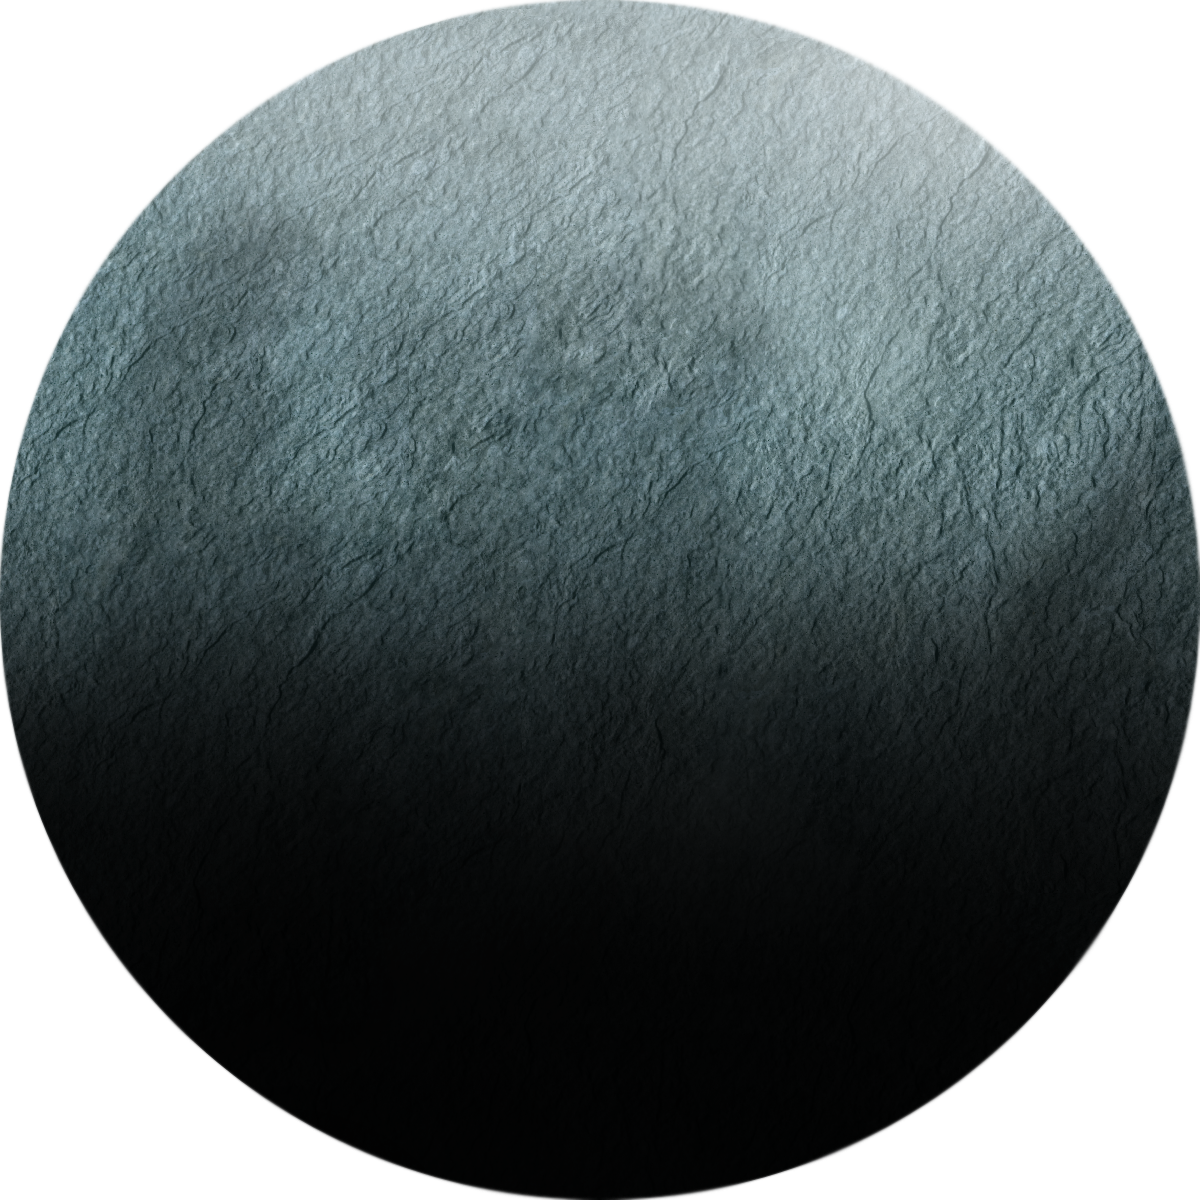
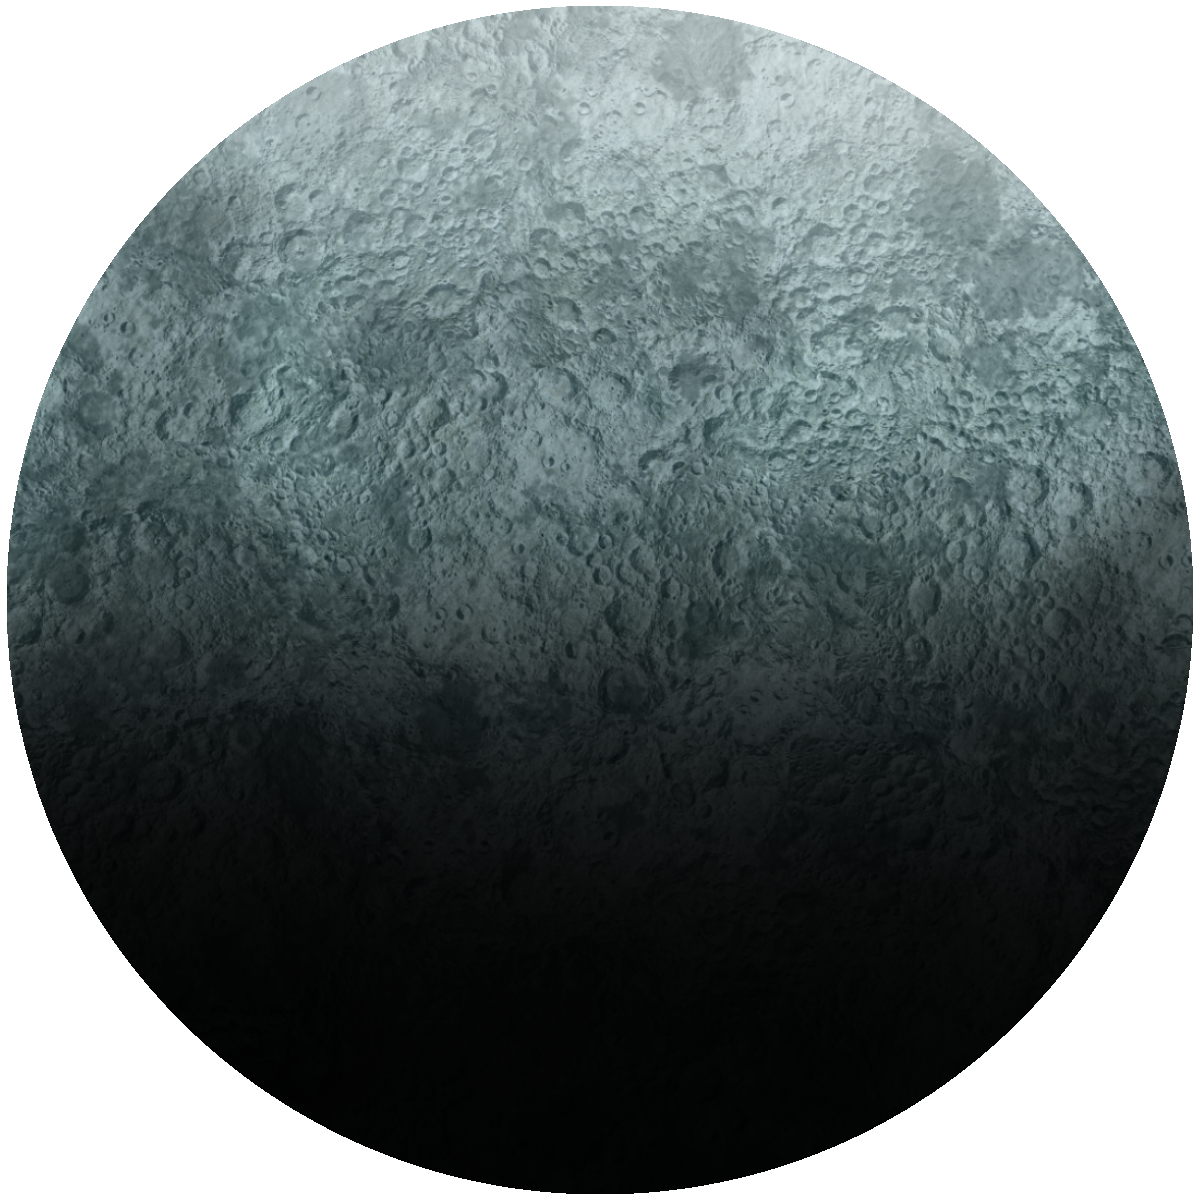
L

diff --git a/index.html b/index.html
@@ -537,7 +537,7 @@
 
                 <div id="item-5" class="item">
                     <h4>Item 5</h4>
-                    <img src="PlanetPlaceholder.png">
+                    <img src="Planet3.png">
                     <table class="tables" hidden>
                         <thead>
                             <tr>
@@ -702,7 +702,7 @@
 
                 <div id="item-6" class="item">
                     <h4>Item 6</h4>
-                    <img src="PlanetPlaceholder.png">
+                    <img src="Planet4.png">
                     <table class="tables" hidden>
                         <thead>
                             <tr>
@@ -867,7 +867,7 @@
 
                 <div id="item-7" class="item">
                     <h4>Item 7</h4>
-                    <img src="PlanetPlaceholder.png">
+                    <img src="moon.png">
                     <table class="tables" hidden>
                         <thead>
                             <tr>
